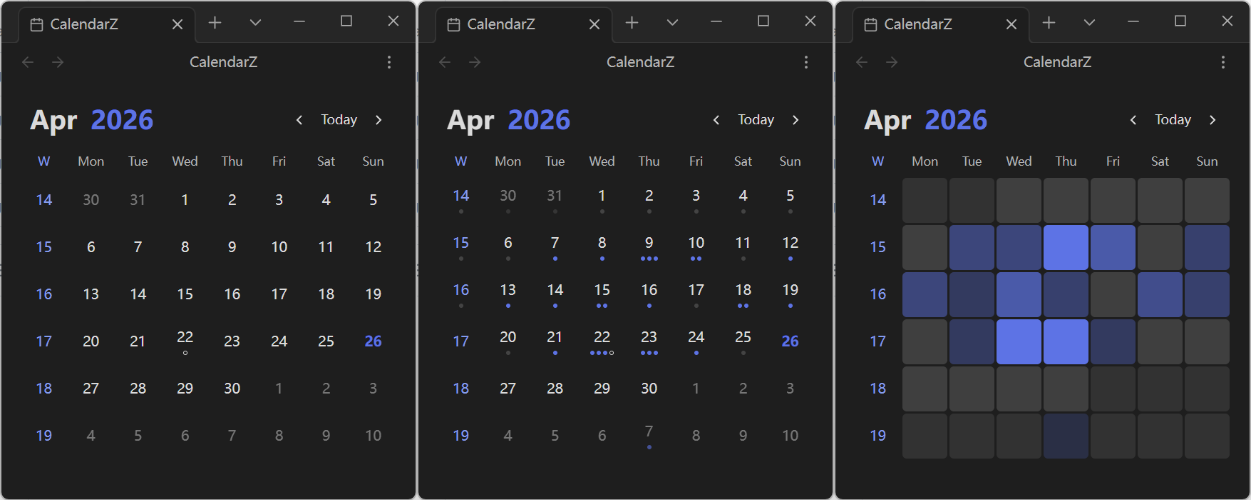
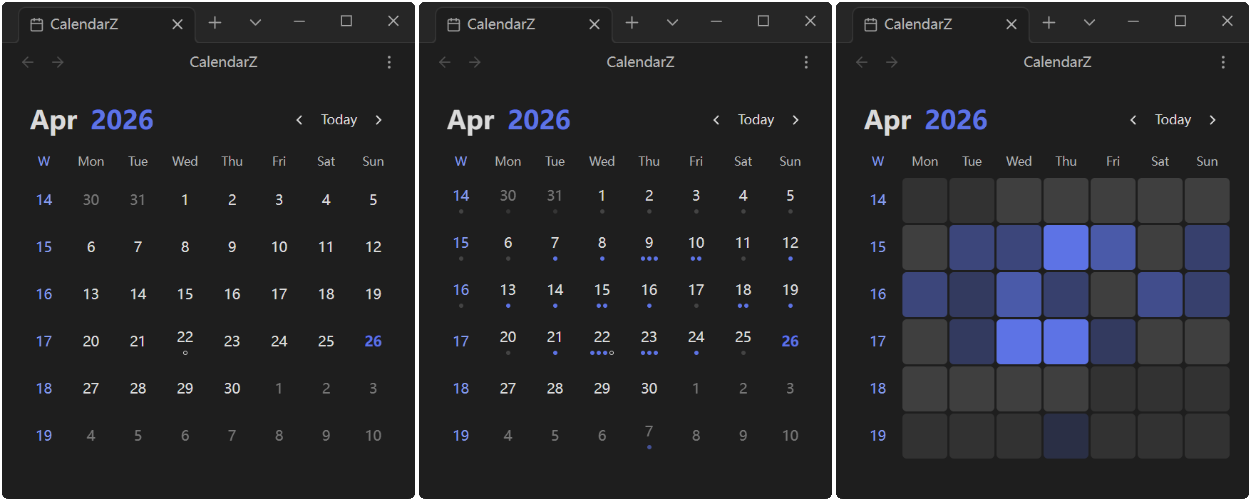
docs: remove buy me a coffee section and update display image

Changed region(s): [[0.0, 0.0, 1.0, 1.0]]

diff --git a/README.md b/README.md
@@ -72,7 +72,3 @@ Issues and Pull Requests are welcome!
 ***
 
 If you find this plugin helpful, please consider giving it a ⭐️
-
-You can also support me by buying me a coffee:
-
-[<img src="https://cdn.buymeacoffee.com/buttons/v2/default-yellow.png" alt="Buy Me a Coffee" width="100">](https://www.buymeacoffee.com/kechengzhang)